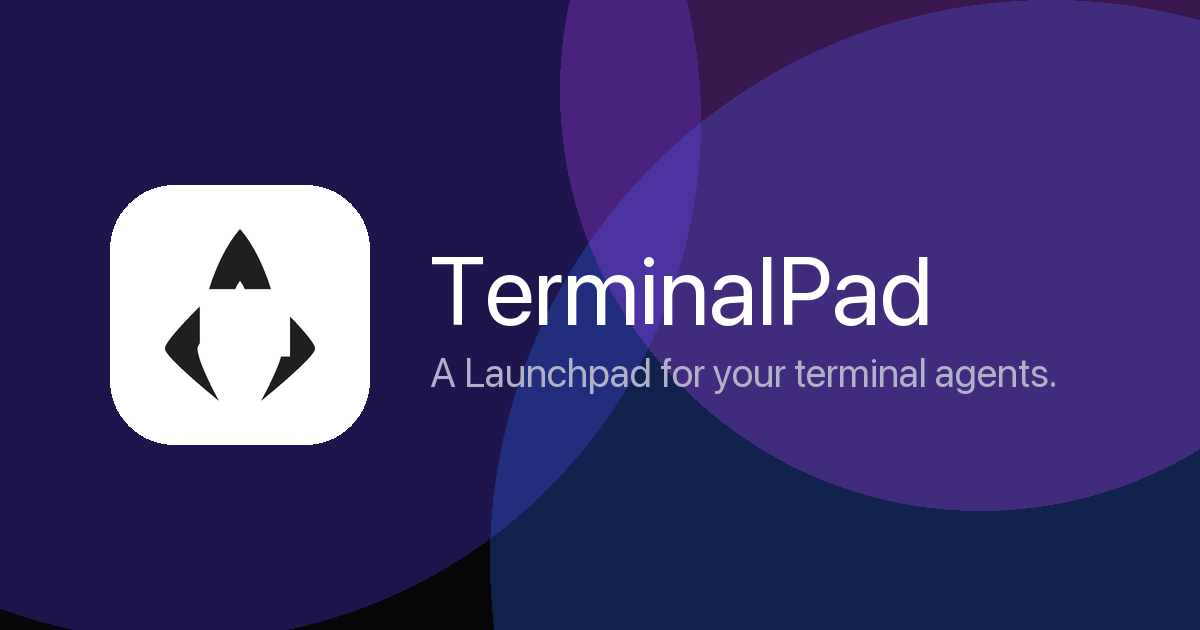
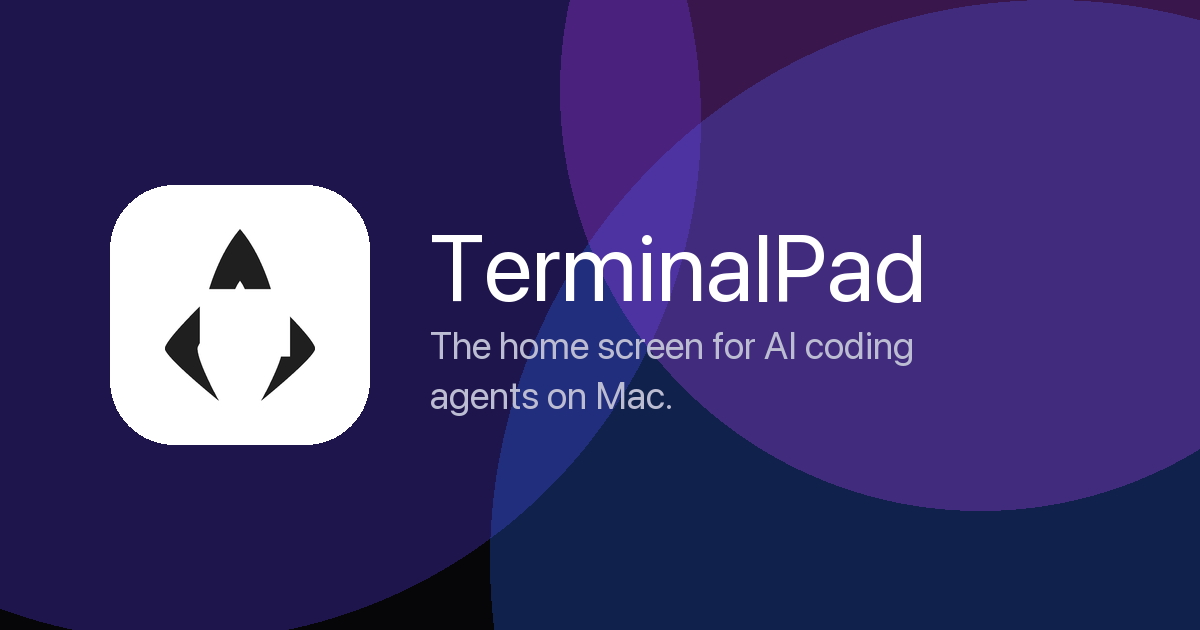
Reposition: "the home screen for AI coding agents on Mac"
Lead with the payoff and the high-intent category (AI CLI launcher) instead
of the mechanism ("Launchpad + Spotlight"). Updates hero (category eyebrow,
H1 "Launch every AI coding agent instantly", agent-named subhead), section
headings, SEO title/description/keywords, OG + Twitter cards, JSON-LD, OG
social image, web manifest, README, and the GitHub repo description + topics
(ai-agents, claude-code, gemini-cli, ollama, opencode, ai-cli, llm).

Changed region(s): [[0.3392, 0.3619, 0.8942, 0.6635]]

diff --git a/docs/index.html b/docs/index.html
@@ -3,28 +3,28 @@
 <head>
 <meta charset="UTF-8" />
 <meta name="viewport" content="width=device-width, initial-scale=1.0, viewport-fit=cover" />
-<title>TerminalPad — A Launchpad for your terminal agents &amp; CLI tools</title>
-<meta name="description" content="TerminalPad is a free, open-source Launchpad + Spotlight for your terminal agents and CLI tools on macOS. Click a tile or type and hit Enter to launch Claude Code, Gemini, OpenCode, Ollama and every CLI you've installed in a new Terminal window." />
-<meta name="keywords" content="TerminalPad, terminal launcher, macOS, CLI launcher, Claude Code, Gemini CLI, OpenCode, Ollama, Spotlight for terminal, developer tools, Launchpad" />
+<title>TerminalPad — AI CLI Launcher for macOS · Launch Claude Code, Gemini &amp; Ollama</title>
+<meta name="description" content="Launch Claude Code, Gemini CLI, Ollama, OpenCode and every AI coding CLI instantly. TerminalPad is a free, open-source AI agent launcher for macOS — one shortcut, no commands to remember." />
+<meta name="keywords" content="AI CLI launcher, AI coding launcher, AI agent launcher, Claude Code launcher, Gemini CLI launcher, Ollama launcher, OpenCode launcher, CLI launcher macOS, terminal launcher for AI, launch AI agents, TerminalPad" />
 <meta name="author" content="Abhisar Singh" />
-<meta name="robots" content="index, follow" />
+<meta name="robots" content="index, follow, max-image-preview:large" />
 <link rel="canonical" href="https://git-abhisar-singh.github.io/TerminalPad/" />
 
 <!-- Open Graph -->
 <meta property="og:type" content="website" />
 <meta property="og:site_name" content="TerminalPad" />
 <meta property="og:url" content="https://git-abhisar-singh.github.io/TerminalPad/" />
-<meta property="og:title" content="TerminalPad — A Launchpad for your terminal agents" />
-<meta property="og:description" content="A free, open-source Launchpad + Spotlight for your terminal agents and CLI tools on macOS." />
+<meta property="og:title" content="TerminalPad — The home screen for AI coding agents on Mac" />
+<meta property="og:description" content="Launch Claude Code, Gemini CLI, Ollama, OpenCode and every AI coding CLI instantly — one shortcut, no commands to remember. Free &amp; open source for macOS." />
 <meta property="og:image" content="https://git-abhisar-singh.github.io/TerminalPad/assets/og.png" />
 <meta property="og:image:width" content="1200" />
 <meta property="og:image:height" content="630" />
-<meta property="og:image:alt" content="TerminalPad — a Launchpad for your terminal agents" />
+<meta property="og:image:alt" content="TerminalPad — the home screen for AI coding agents on Mac" />
 
 <!-- Twitter -->
 <meta name="twitter:card" content="summary_large_image" />
-<meta name="twitter:title" content="TerminalPad — A Launchpad for your terminal agents" />
-<meta name="twitter:description" content="A free, open-source Launchpad + Spotlight for your terminal agents and CLI tools on macOS." />
+<meta name="twitter:title" content="TerminalPad — The home screen for AI coding agents on Mac" />
+<meta name="twitter:description" content="Launch Claude Code, Gemini CLI, Ollama, OpenCode and every AI coding CLI instantly — one shortcut, no commands to remember." />
 <meta name="twitter:image" content="https://git-abhisar-singh.github.io/TerminalPad/assets/og.png" />
 
 <!-- Favicons -->
@@ -46,9 +46,11 @@
   "@context": "https://schema.org",
   "@type": "SoftwareApplication",
   "name": "TerminalPad",
+  "alternateName": "TerminalPad — AI CLI Launcher for macOS",
   "applicationCategory": "DeveloperApplication",
   "operatingSystem": "macOS 14.0",
-  "description": "A Launchpad + Spotlight for your terminal agents and CLI tools on macOS.",
+  "description": "TerminalPad is the home screen for AI coding agents on Mac. Launch Claude Code, Gemini CLI, Ollama, OpenCode and every AI coding CLI instantly with one shortcut.",
+  "keywords": "AI CLI launcher, AI agent launcher, Claude Code, Gemini CLI, Ollama, OpenCode, macOS",
   "url": "https://git-abhisar-singh.github.io/TerminalPad/",
   "downloadUrl": "https://github.com/git-abhisar-singh/TerminalPad",
   "author": { "@type": "Person", "name": "Abhisar Singh" },
@@ -90,11 +92,12 @@
 <main id="top">
 <section class="hero">
   <div class="hero-copy reveal">
-    <div class="pill">macOS 14+ · Apple Silicon &amp; Intel</div>
-    <h1>Launch any agent<br />in one keystroke.</h1>
+    <div class="pill">The home screen for AI coding agents</div>
+    <h1>Launch every<br />AI coding agent<br />instantly.</h1>
     <p class="lede">
-      A Launchpad + Spotlight for your terminal agents and CLI tools.
-      Click a tile — or type and hit Enter — and it opens in a new Terminal window.
+      TerminalPad turns your installed CLIs into a searchable grid on Mac. Open
+      Claude Code, Gemini CLI, Ollama, OpenCode and your own commands with one
+      shortcut — no flags to remember.
     </p>
     <div class="cta-row">
       <a class="btn btn-primary" href="#install">Install for macOS</a>
@@ -104,7 +107,7 @@
       <code><span class="prompt">$</span> git clone …/TerminalPad.git &amp;&amp; ./install.sh</code>
       <button class="copy" aria-label="Copy install command">Copy</button>
     </div>
-    <p class="micro">Free &amp; open source · No Apple account · Builds locally, no Gatekeeper warning</p>
+    <p class="micro">Free &amp; open source · macOS 14+ (Apple Silicon &amp; Intel) · Builds locally, no Gatekeeper warning</p>
   </div>
 
   <!-- CSS mock of the app window -->
@@ -139,8 +142,8 @@
 <!-- features -->
 <section id="features" class="features">
   <div class="section-head reveal">
-    <h2>Everything you launch, in one place.</h2>
-    <p>Your agents and every CLI you've installed — searchable, beautiful, one keystroke away.</p>
+    <h2>One launcher for every AI coding CLI.</h2>
+    <p>Your agents and every CLI you've installed — searchable, beautiful, one shortcut away.</p>
   </div>
   <div class="cards">
     <article class="card reveal">
@@ -197,7 +200,7 @@ cd TerminalPad
 <!-- how it works -->
 <section id="how" class="how">
   <div class="section-head reveal">
-    <h2>How it works.</h2>
+    <h2>How TerminalPad launches your agents.</h2>
   </div>
   <div class="steps">
     <div class="step reveal"><span class="n">1</span><div><h3>Open</h3><p>Hit <kbd>⌥⌘Space</kbd> or click the menu-bar icon. The glass panel appears, search already focused.</p></div></div>

diff --git a/docs/style.css b/docs/style.css
@@ -122,7 +122,7 @@ a { color: inherit; text-decoration: none; }
   margin-bottom: 22px;
 }
 h1 {
-  font-size: clamp(40px, 6vw, 66px); line-height: 1.02; font-weight: 800;
+  font-size: clamp(38px, 5.2vw, 58px); line-height: 1.04; font-weight: 800;
   letter-spacing: -0.035em;
   background: linear-gradient(180deg, #fff 35%, #b9b9c6);
   -webkit-background-clip: text; background-clip: text; color: transparent;

diff --git a/make_web_assets.py b/make_web_assets.py
@@ -87,9 +87,11 @@ def og_image():
     img.alpha_composite(tile, (110, (H - 260) // 2))
 
     tx = 430
-    d.text((tx, 232), "TerminalPad", font=font(96), fill=(255, 255, 255, 255))
-    d.text((tx, 348), "A Launchpad for your terminal agents.",
-           font=font(40, bold=False), fill=(176, 176, 198, 255))
+    d.text((tx, 210), "TerminalPad", font=font(94), fill=(255, 255, 255, 255))
+    d.text((tx, 322), "The home screen for AI coding",
+           font=font(38, bold=False), fill=(188, 188, 210, 255))
+    d.text((tx, 372), "agents on Mac.",
+           font=font(38, bold=False), fill=(188, 188, 210, 255))
     img.convert("RGB").save(os.path.join(ASSETS, "og.png"), quality=92)
     print("wrote og.png (1200x630)")
 